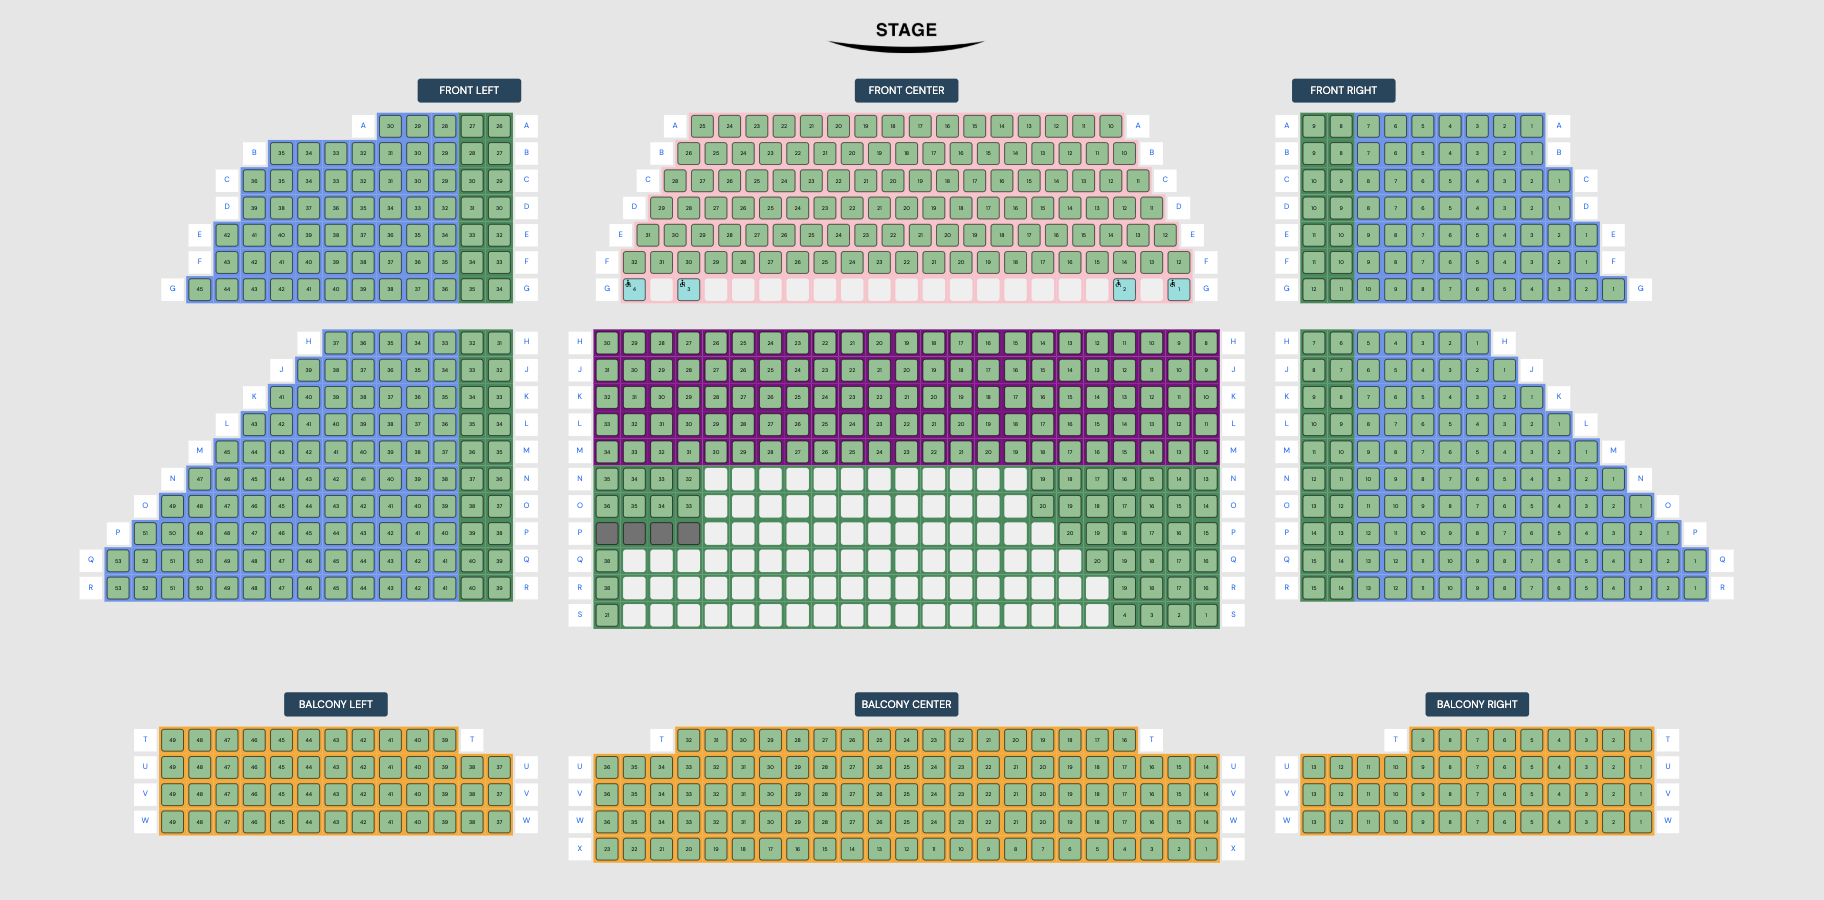
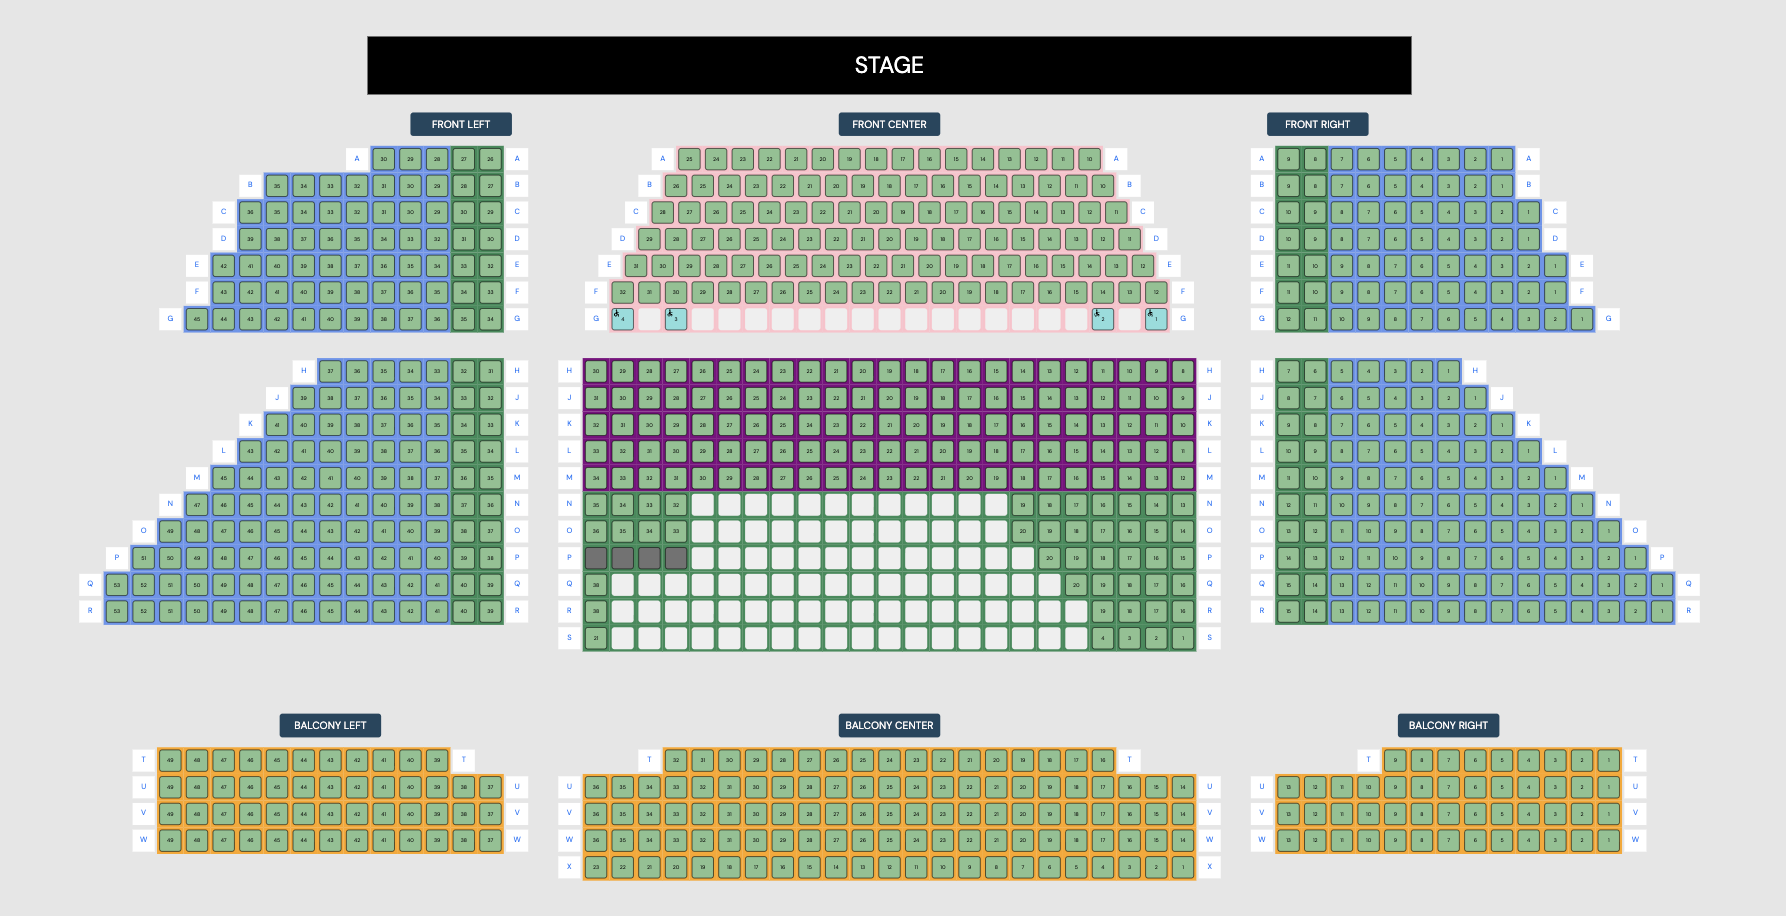
updates

diff --git a/html/68458.html b/html/68458.html
@@ -19,6 +19,19 @@
   .row-orange td:has(.seatCharts-seat) {
     background-color: orange;
   }
+  .stage-image {
+    position: relative;
+    z-index: 0;
+    display: flex;
+    justify-content: center;
+    align-items: center;
+    text-align: center;
+    background-color: black;
+    color: white;
+    width: 1800px;
+    height: 100px;
+    font-size: 40px;
+  }
 </style>
 
 <table width="100%" border="0" cellspacing="0" cellpadding="0" align="center">
@@ -26,12 +39,13 @@
   <tr>
     <td>
       <div align="center" style="position: relative; z-index: 0">
-        <img
-          src="https://s3.amazonaws.com/prdv2-dt-client/seating_images/stage.png"
-          alt="STAGE"
-          width="300"
-          height="80"
-        />
+        <table align="center" border="0" cellspacing="0" cellpadding="0">
+          <tr>
+            <td>
+              <div class="stage-image" align="center">STAGE</div>
+            </td>
+          </tr>
+        </table>
       </div>
     </td>
   </tr>
